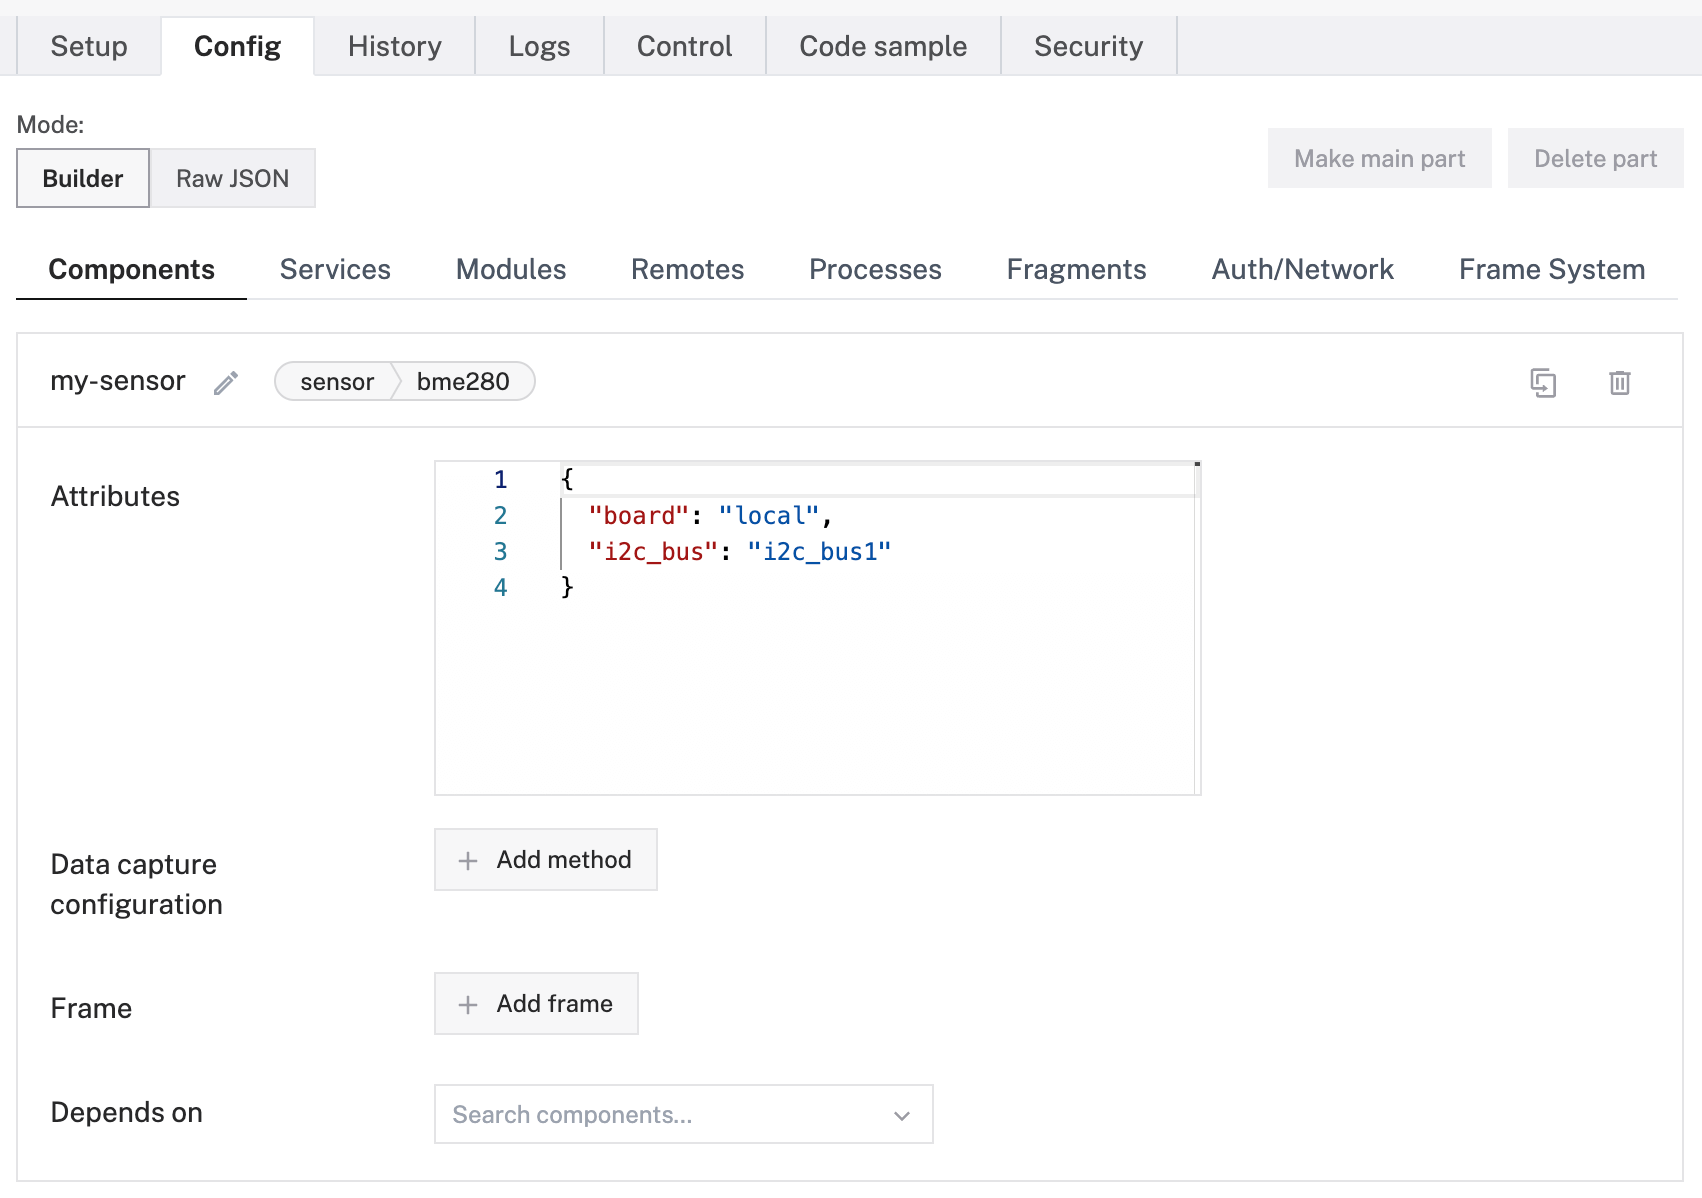
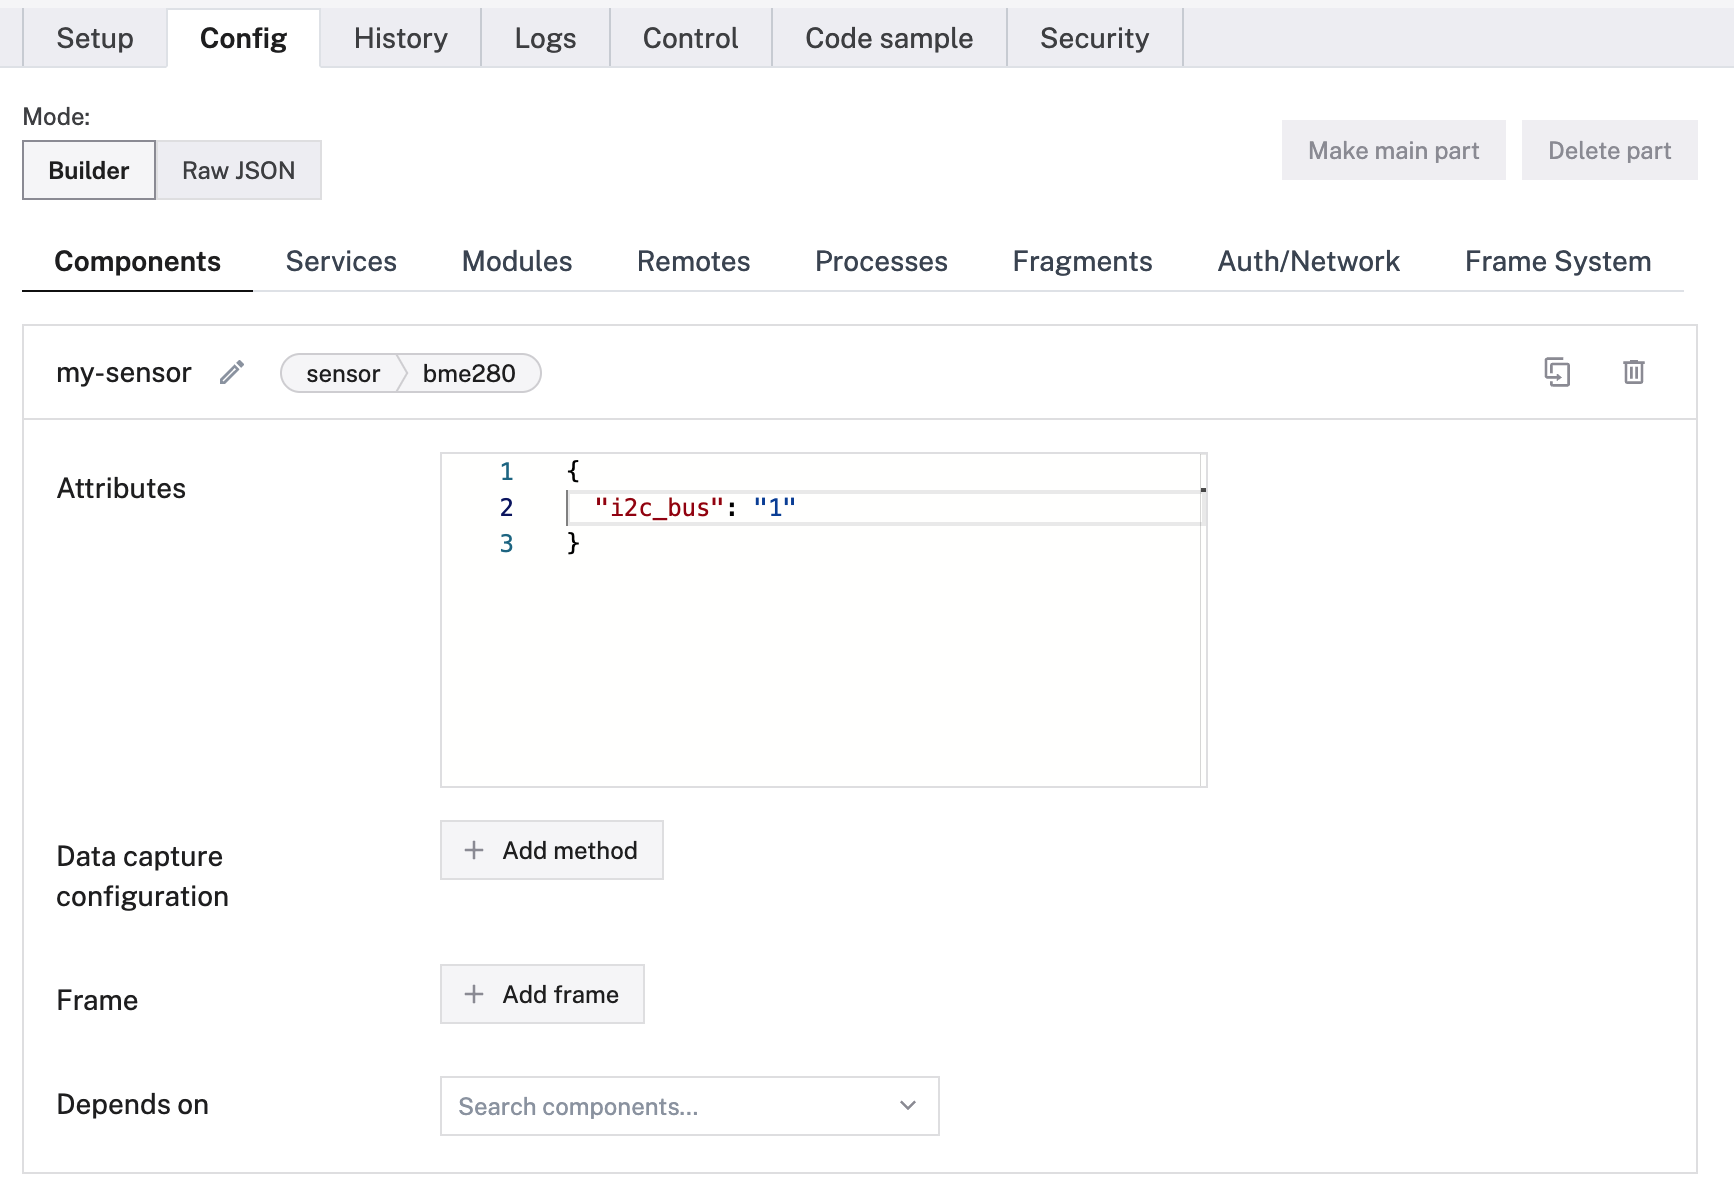
Update I2Cs for sensor

diff --git a/docs/components/sensor/bme280.md b/docs/components/sensor/bme280.md
@@ -32,8 +32,7 @@ Then remove and fill in the attributes as applicable to your sensor, according t
 
 ```json {class="line-numbers linkable-line-numbers"}
 {
-  "board": "<your-board-name>",
-  "i2c_bus": "<your-i2c-bus-name-on-board>",
+  "i2c_bus": "<your-i2c-bus-index-on-board>",
   "i2c_address": "<your-i2c-address>"
 }
 ```
@@ -43,8 +42,7 @@ Then remove and fill in the attributes as applicable to your sensor, according t
 
 ```json {class="line-numbers linkable-line-numbers"}
 {
-  "board": "local",
-  "i2c_bus": "i2c_bus1"
+  "i2c_bus": "1"
 }
 ```
 
@@ -63,8 +61,7 @@ Then remove and fill in the attributes as applicable to your sensor, according t
       "type": "sensor",
       "namespace": "rdk",
       "attributes": {
-        "board": "<your-board-name>",
-        "i2c_bus": "<your-i2c-bus-name-on-board>",
+        "i2c_bus": "<your-i2c-bus-index-on-board>",
         "i2c_address": "<your-i2c-address>"
       },
       "depends_on": []
@@ -81,8 +78,7 @@ The following attributes are available for `bme280` sensors:
 <!-- prettier-ignore -->
 | Attribute | Type | Inclusion | Description |
 | --------- | ---- | --------- | ----------  |
-| `board` | string | **Required** | The `name` of the [board](/components/board/) the sensor is wired to. |
-| `i2c_bus` | string | **Required** | The `name` of the [I2C bus](/components/board/#i2cs) on the board that the sensor is wired to. |
+| `i2c_bus` | string | **Required** | The index of the [I2C bus](/components/board/#i2cs) on the board that the sensor is wired to. |
 | `i2c_address`  | string | Optional | Default: `0x77`. The [I2C device address](https://learn.adafruit.com/i2c-addresses/overview) of the sensor. |
 
 {{< readfile "/static/include/components/test-control/sensor-control.md" >}}
